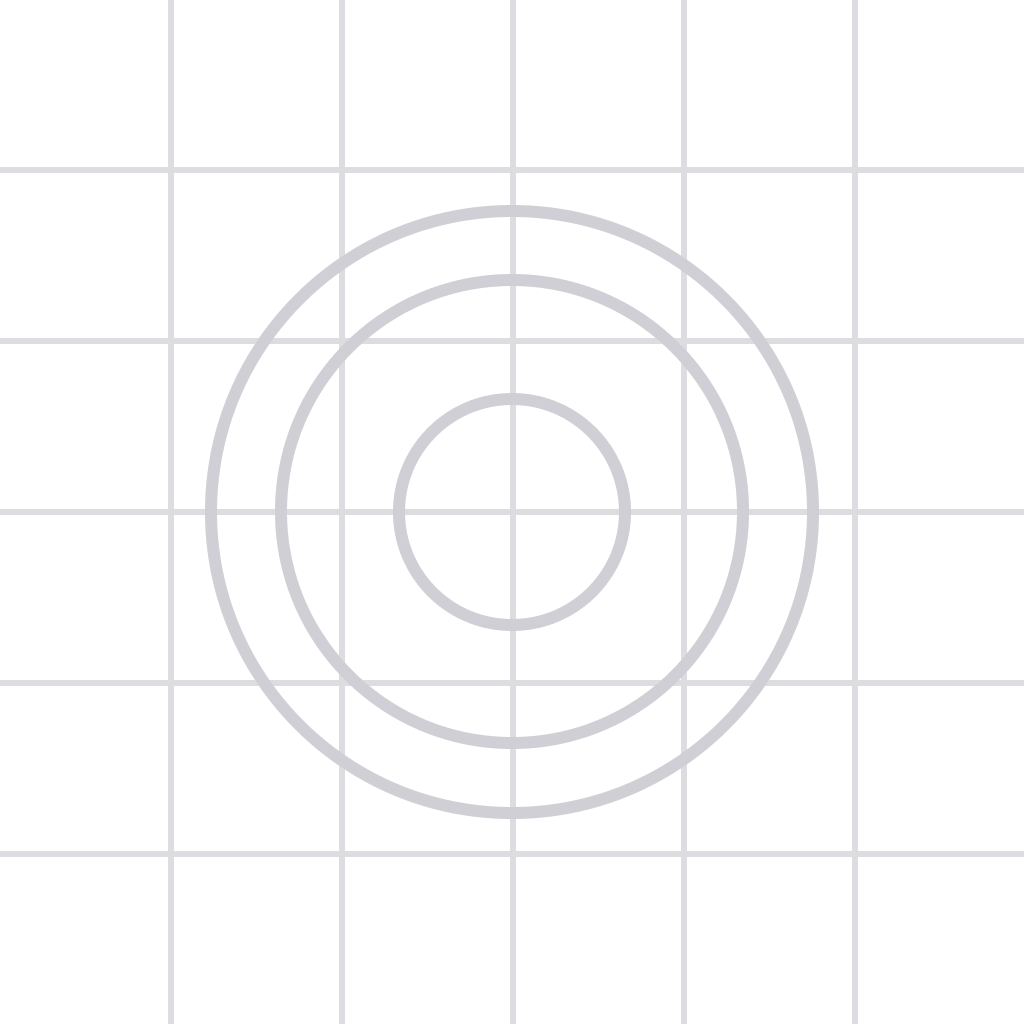
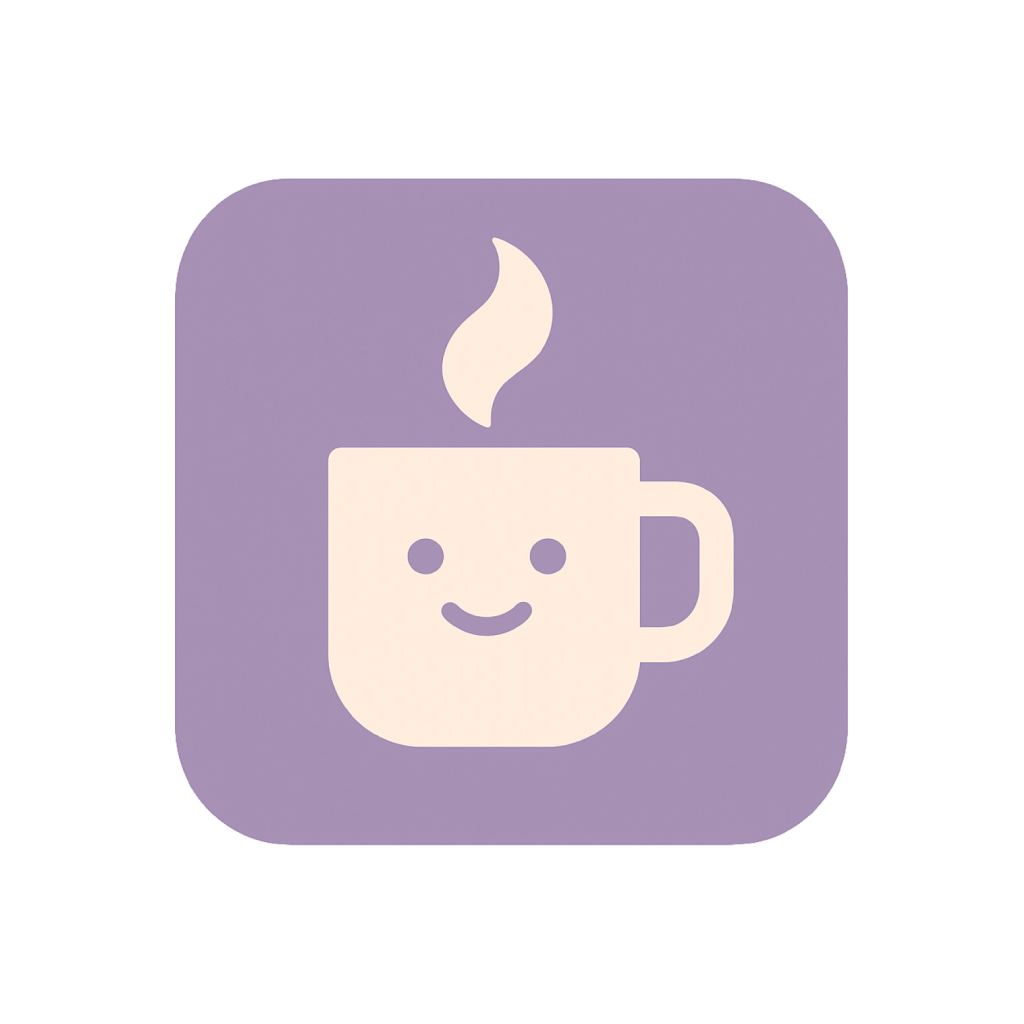
Mas cambios

diff --git a/app/TestScreen/index.tsx b/app/TestScreen/index.tsx
@@ -3,11 +3,11 @@ import React, { useEffect, useState } from 'react';
 import axios from 'axios';
 import { useSurvey } from '@/hooks/SurveyContext';
 import { mapFormToModel } from '@/hooks/utils/mapFormToModel';
-import urlContainer from '@/urlContainer';
+import urlContainer from '@/hooks/urlContainer';
 import ThemedView from '@/components/shared/ThemedView';
 import ThemedButton from '@/components/shared/ThemedButton';
 import { getUserId } from '@/hooks/utils/userId';
-import { printHistory, saveResult, clearHistory } from '@/components/shared/burnoutHistory';
+import { saveResult } from '@/components/shared/burnoutHistory';
 
 
 const TestScreen = () => {

diff --git a/app/(tabs)/StatsScreen/index.tsx b/app/(tabs)/StatsScreen/index.tsx
@@ -37,7 +37,6 @@ const StatsScreen = () => {
         setHistory(parsed);
 
         const last = parsed[parsed.length - 1];
-        console.log('Último resultado:', last);
         if (last?.factores) {
           const factoresPositivos = last.factores
             .filter((f: any) => f.impacto_modelo > 0)